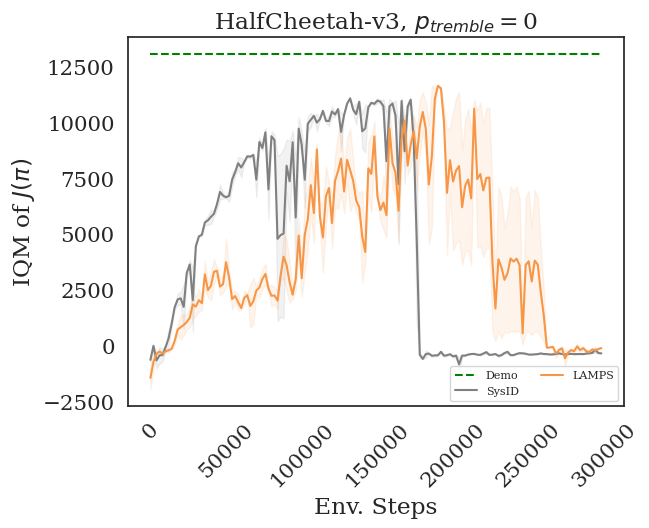
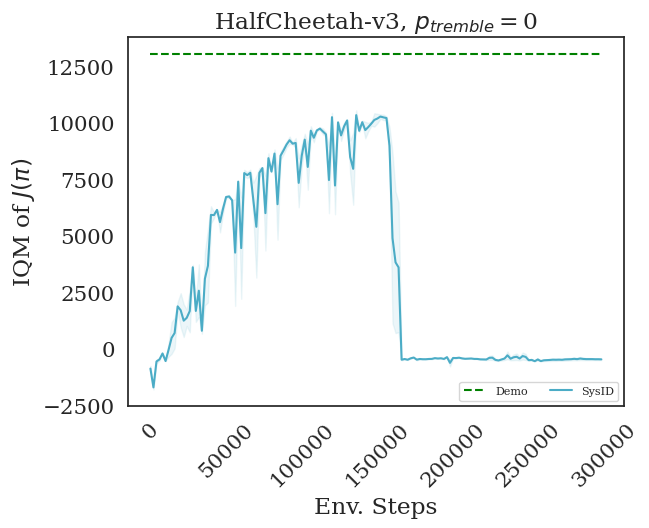
wip

diff --git a/MujocoSysID/aggregate_hyrda_results.py b/MujocoSysID/aggregate_hyrda_results.py
@@ -10,9 +10,8 @@ def is_non_zero_file(fpath):
     return os.path.isfile(fpath) and os.path.getsize(fpath) > 0
 
 
-def main(env_name, override):
-    # ! TODO: is it worth partitioning by date?
-    algs = ["lamps", "sysid"]
+def main(env_name, override, partition):
+    algs = ["lamps", "sysid", "mbpo"]
 
     for alg in algs:
         base_dir = Path("exp", alg, "result", env_name)
@@ -25,7 +24,7 @@ def main(env_name, override):
                     f.unlink()
 
         # loop through date/run_id/multi_run_num
-        for subdir in base_dir.glob("*/*/*"):
+        for subdir in base_dir.glob(f"{partition}/*/*"):
             if not subdir.is_dir():
                 continue
             results_file = Path(subdir, "results.csv")
@@ -33,10 +32,13 @@ def main(env_name, override):
                 continue
 
             # Make sure results.csv has 150 entries
-            if (
-                not is_non_zero_file(results_file)
-                or len(pd.read_csv(results_file)) != 150
-            ):
+            try:
+                df = pd.read_csv(results_file)
+            except Exception as e:
+                print(f"Error reading {results_file}: {e}")
+                continue
+
+            if not is_non_zero_file(results_file) or len(df) < 400:
                 continue
 
             # Look into .hydra directory for the hydra.yml file
@@ -69,6 +71,7 @@ if __name__ == "__main__":
         help="Name of the environment",
     )
     parser.add_argument("-o", "--override", action="store_true", default=False)
+    parser.add_argument("-p", type=str, default="*")
     args = parser.parse_args()
 
     env_abbr = args.env_name
@@ -83,4 +86,4 @@ if __name__ == "__main__":
     elif env_abbr == "walk":
         env_name = "Walker2d-v3"
     env_name = f"gym___{env_name}"
-    main(env_name, args.override)
+    main(env_name, args.override, args.p)

diff --git a/MujocoSysID/generate_plots.py b/MujocoSysID/generate_plots.py
@@ -54,25 +54,36 @@ def main(env_abbrv, env_name):
     csv_results_dir = Path("csv_results", env_name)
     algs_to_colors = {
         "exp": "green",
-        "sysid": "grey",
+        "mbpo": "grey",
+        "sysid": "#4bacc6",
         "lamps": "#F79646",
     }
     algs_to_labels = {
         "exp": "Demo",
+        "mbpo": "MBPO",
         "lamps": "LAMPS",
         "sysid": "SysID",
     }
     env_name_to_exp_scores = {
-        "ant": 5207.53,
-        "hc": 13088.32,
-        "hop": 3318.71,
-        "hum": 5708.24,
-        "walk": 5740.80,
+        # SB3 Experts
+        "ant": 4596,
+        "hc": 10317,
+        "hop": 978,
+        "walk": 4395,
+        "hum": 6160,
+        ### Yuda Experts
+        # "ant": 5207.53,
+        # "hc": 13088.32,
+        # "hop": 3318.71,
+        # "hum": 5708.24,
+        # "walk": 5740.80,
     }
 
-    steps = 150
+    steps = 125
     sz = 2000
     for alg in algs_to_colors.keys():
+        if not (alg == "exp" or alg == "mbpo"):
+            continue
         if alg == "exp":
             plt.plot(
                 np.arange(steps) * sz,
@@ -87,6 +98,9 @@ def main(env_abbrv, env_name):
             for csv in csvs:
                 data = pd.read_csv(csv).episode_reward.to_numpy()
                 scores.append(data)
+            if scores == []:
+                print(f"Skipping {alg}")
+                continue
             scores = np.stack(scores, axis=0)
             mean, std_err = (
                 calc_iqm(scores)["alg"],
